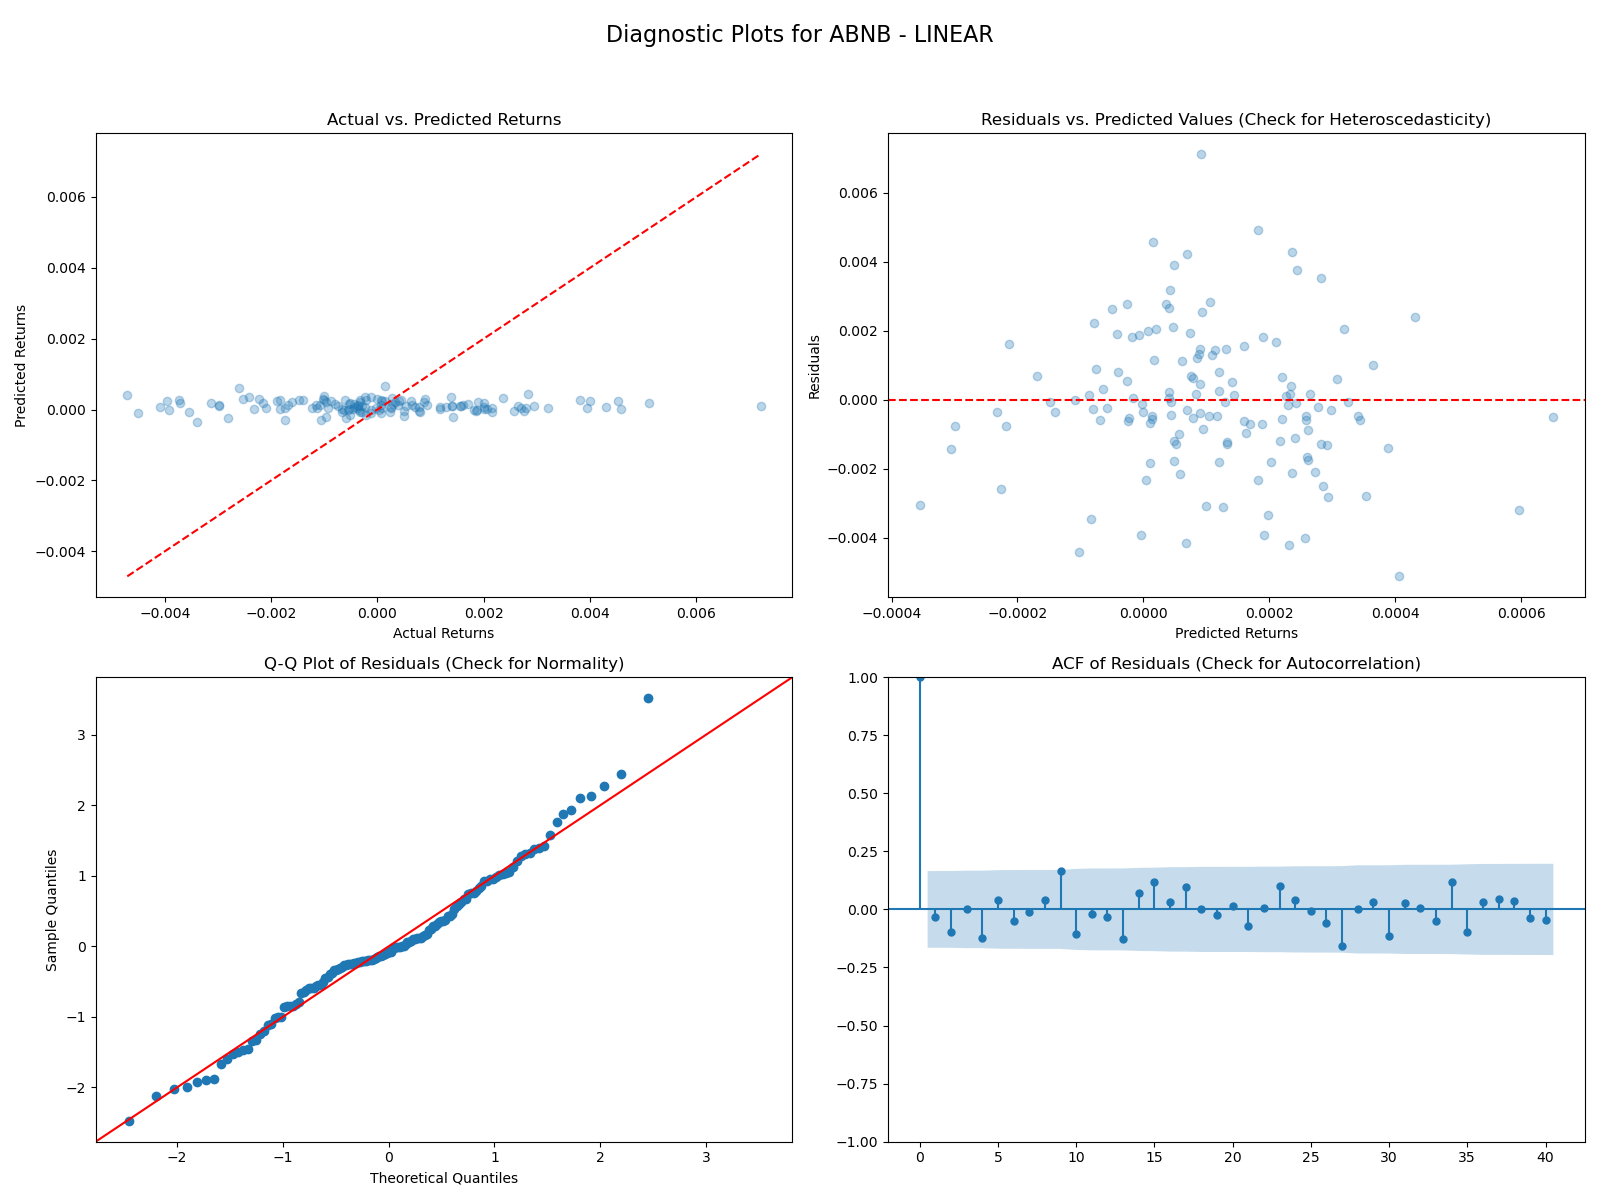
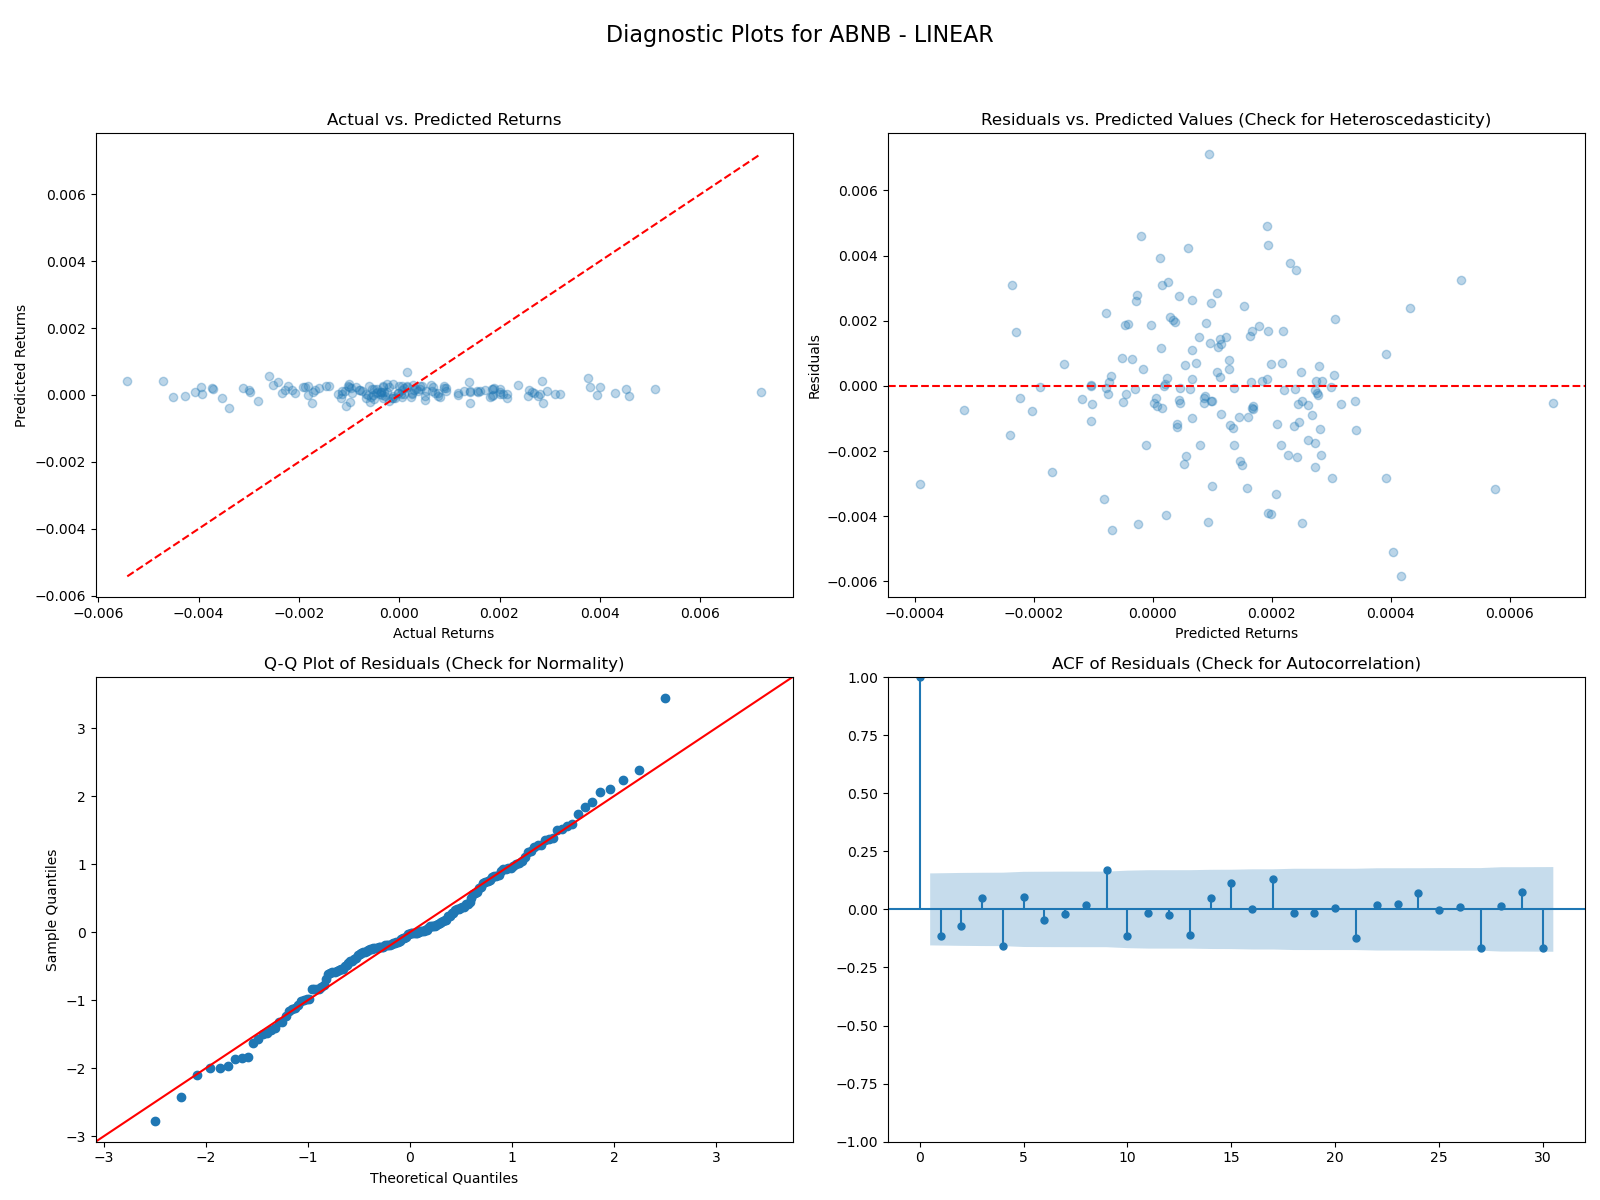
Refactor regression fitting function to use a new data_split utility for improved data handling and add data_split function to utils.py for chronological DataFrame splitting.

diff --git a/src/utils.py b/src/utils.py
@@ -18,7 +18,7 @@ def load_data(file_path: str) -> pd.DataFrame:
         return pd.DataFrame()  # Return an empty DataFrame on error
     
 
-def remove_outlier_returns(df: pd.DateFrame, column: str = 'RETURN_NoOVERNIGHT', lower_percentile: float = 0.01, upper_percentile: float = 0.99):
+def remove_outlier_returns(df: pd.DataFrame, column: str = 'RETURN_NoOVERNIGHT', lower_percentile: float = 0.01, upper_percentile: float = 0.99):
     """
     Removes outlier returns from the specified column in the DataFrame by clipping values
     to the specified lower and upper percentiles.
@@ -82,3 +82,36 @@ def filter_trading_returns(df: pd.DataFrame) -> pd.DataFrame:
         print("Warning: No non-zero returns found after filtering.")
         
     return trading_returns_df
+
+
+def data_split(df: pd.DataFrame, split_datetime: str, min_train_size: int = 2, min_test_size: int = 2):
+    """
+    Splits a DataFrame chronologically at a specified datetime into training and test sets.
+
+    Args:
+        df: Input DataFrame with a DatetimeIndex, assumed to be sorted chronologically.
+        split_datetime: Datetime string (e.g., '2021-12-27 00:00:00') for splitting.
+        min_train_size: Minimum number of rows for training set.
+        min_test_size: Minimum number of rows for test set.
+
+    Returns:
+        Tuple of (train_df, test_df), or (None, None) if split is invalid.
+    """
+    if df.empty or not isinstance(df.index, pd.DatetimeIndex):
+        print("Warning: Empty DataFrame or index is not a DatetimeIndex.")
+        return None, None
+
+    try:
+        split_dt = pd.to_datetime(split_datetime)
+    except ValueError:
+        print(f"Warning: Invalid split_datetime '{split_datetime}'.")
+        return None, None
+
+    train_df = df[df.index < split_dt]
+    test_df = df[df.index >= split_dt]
+
+    if len(train_df) < min_train_size or len(test_df) < min_test_size:
+        print(f"Warning: Insufficient data for split (train: {len(train_df)}, test: {len(test_df)}).")
+        return None, None
+
+    return train_df, test_df

diff --git a/src/linear_benchmarks.py b/src/linear_benchmarks.py
@@ -19,7 +19,7 @@ import statsmodels.api as sm
 from statsmodels.graphics.tsaplots import plot_acf
 
 # Helper imports
-from src.utils import load_data, filter_trading_returns
+from src.utils import load_data, filter_trading_returns, data_split
 
 warnings.filterwarnings("ignore", category=FutureWarning, module='sklearn')
 
@@ -51,16 +51,12 @@ def create_lag_features(df: pd.DataFrame, lags: int, target_col: str, min_daily_
     return df_filtered
 
 
-def fit_single_regression(df_stock: pd.DataFrame, target_col: str, feature_cols: list, model_type: str = 'linear', alpha: float = 0.001, train_split_ratio: float = 0.8):
+def fit_single_regression(df_stock: pd.DataFrame, target_col: str, feature_cols: list, model_type: str = 'linear', alpha: float = 0.01, split_datetime: str = '2021-12-27 00:00:00'):
     """Fits a single regression model for one stock's data and returns results."""
     
-    # Split data chronologically
-    split_point = int(len(df_stock) * train_split_ratio)
-    train_df = df_stock.iloc[:split_point]
-    test_df = df_stock.iloc[split_point:]
-
-    if len(train_df) < 2 or len(test_df) < 2:
-        return None # Not enough data to train or test
+    train_df, test_df = data_split(df_stock, split_datetime)
+    if train_df is None or test_df is None:
+        return None
 
     X_train, y_train = train_df[feature_cols], train_df[target_col]
     X_test, y_test = test_df[feature_cols], test_df[target_col]
